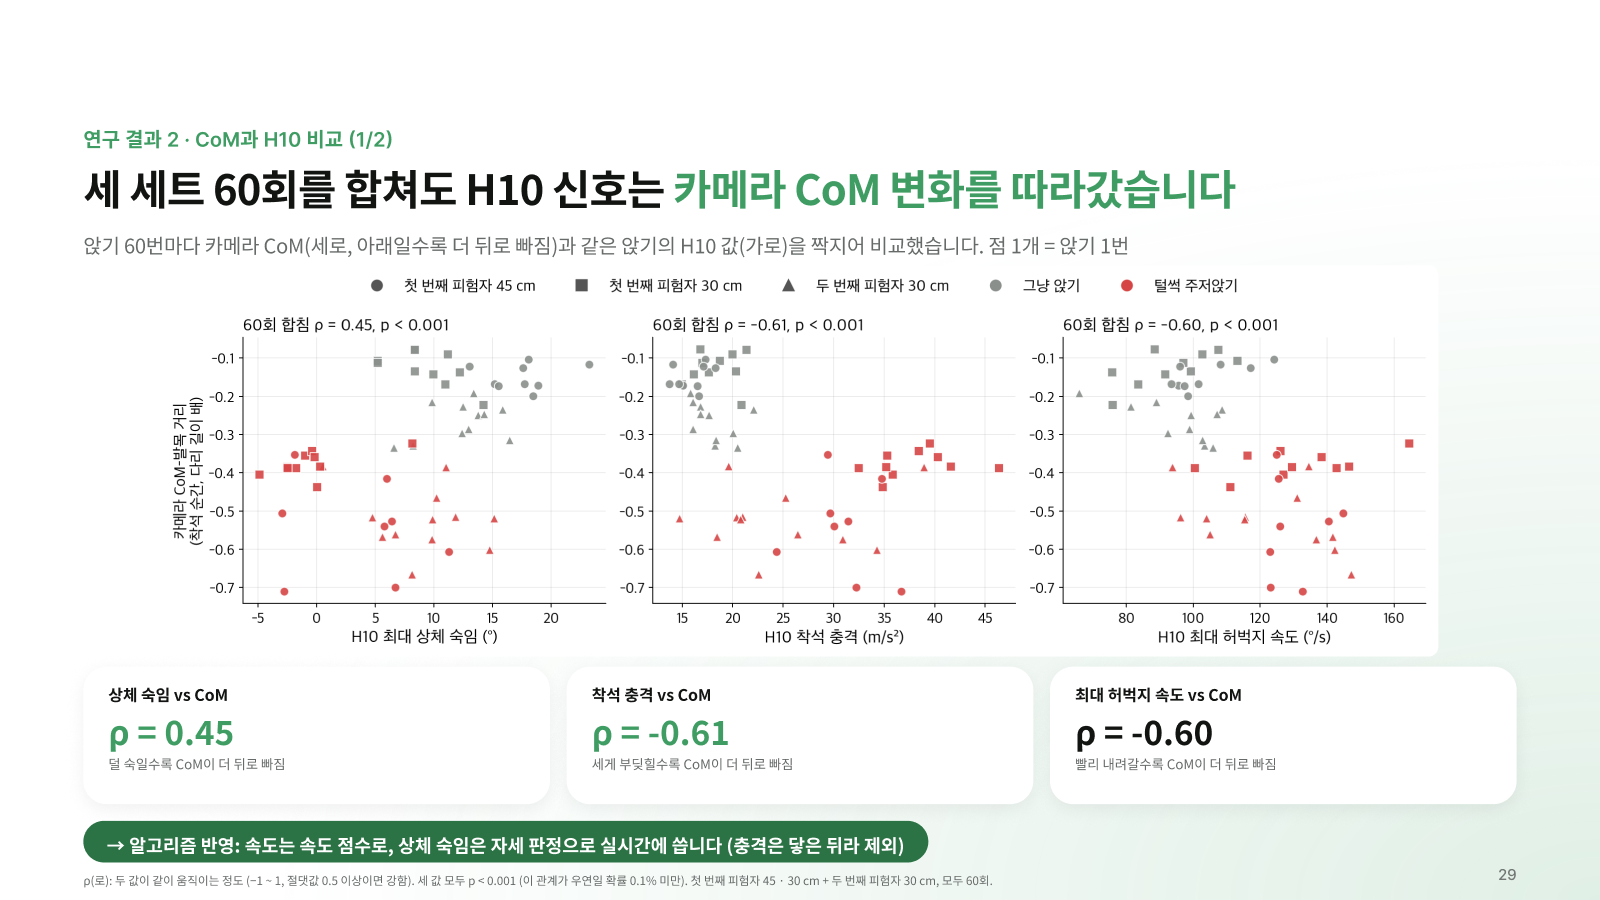
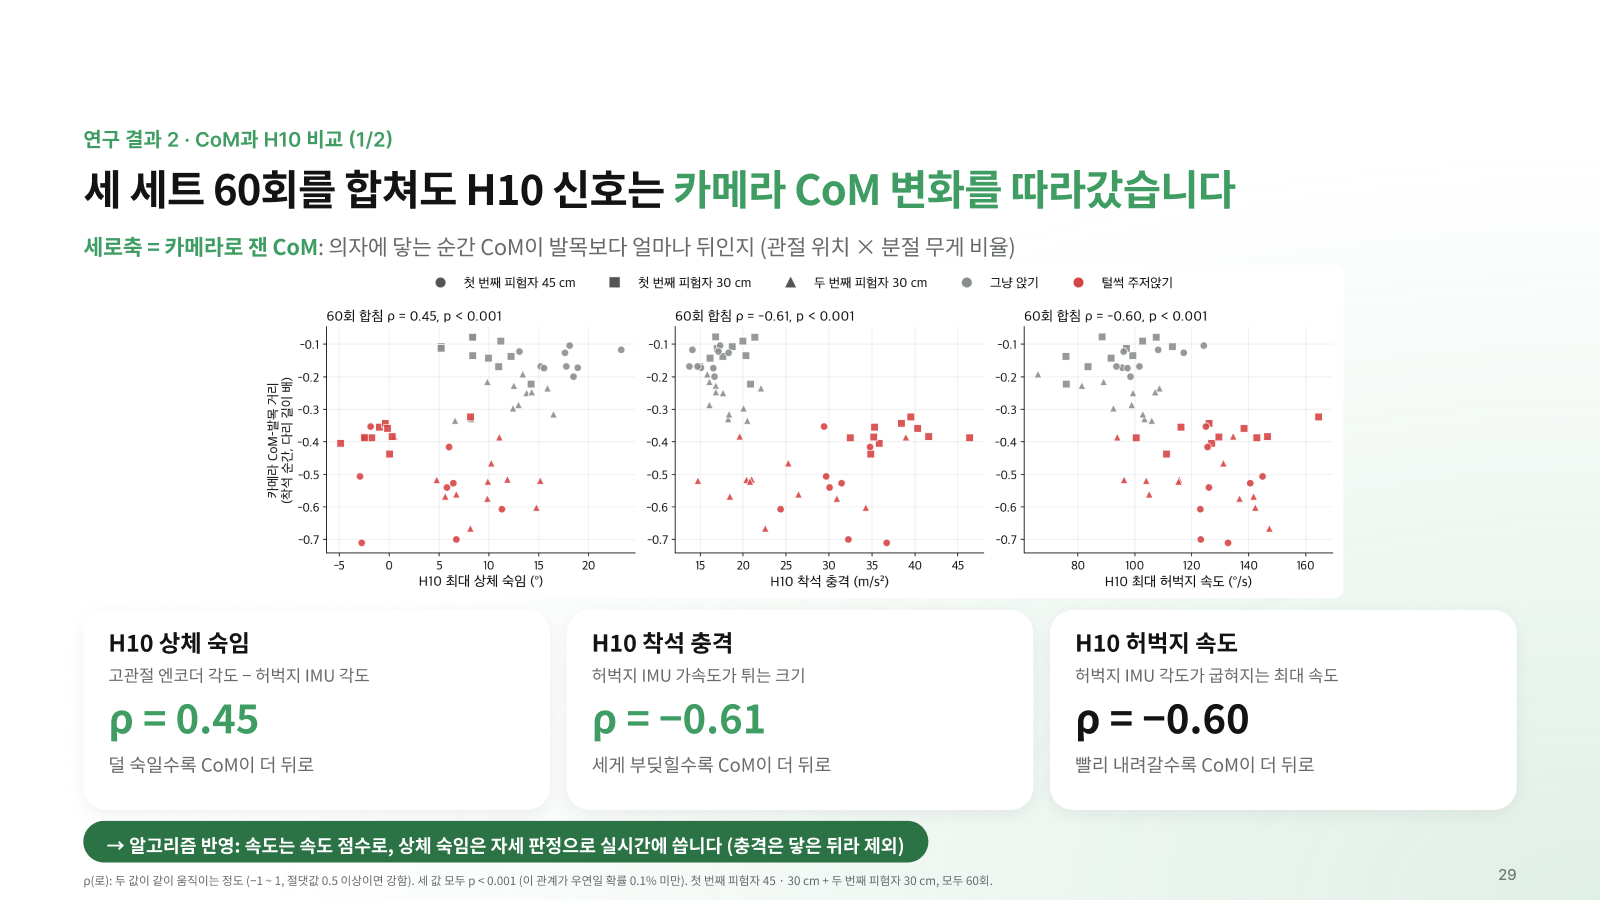
Slide 29: show how each H10 value and the camera CoM were measured, large cards

diff --git a/presentation/발표_대본.md b/presentation/발표_대본.md
@@ -90,16 +90,18 @@ CoM은 이렇게 구했습니다. 카메라를 옆에 고정해 전신을 찍고
 > 참고 (질문 받으면): '평소 최대 깊이'는 45 cm 평소 착석 각도의 평균에 표준편차의 2배(2SD)를 더한 69.4°입니다. 평소 착석의 약 95%가 이 안에 들어옵니다. 이 기준으로 낮은 의자를 몇 번 알아봤는지는 36번 보조 결과에서 보여 드립니다.
 
 **[29] 연구 결과 2-1: H10 신호는 CoM을 따라갔습니다**
-앉기 한 번마다 두 가지를 같이 쟀습니다. 하나는 카메라로 잰, 의자에 닿는 순간 CoM이 발목보다 얼마나 뒤에 있었는지입니다. 그래프의 세로축이고, 아래로 갈수록 더 뒤로 빠진 것입니다. 다른 하나는 같은 앉기에서 H10이 잰 값 세 가지, 상체를 최대로 숙인 각도, 닿을 때의 충격, 허벅지가 가장 빨리 굽혀진 속도입니다. 이게 가로축입니다. 점 하나가 앉기 한 번이고, 회색은 그냥 앉기, 빨간색은 털썩 주저앉기입니다. 이걸 60번 짝지어 봤습니다.
+이 장은 H10이 그대로 잰 값 중 무엇이 CoM과 같이 움직이는지 본 것입니다.
 
-ρ, '로'라고 읽는 값은 두 값이 얼마나 같이 움직이는지입니다. −1부터 1까지이고, 절댓값이 0.5를 넘으면 꽤 강한 관계로 봅니다. 카메라와 H10을 함께 잰 앉기 60번을 합쳐 보니,
-- 상체 숙임은 ρ = 0.45로, 덜 숙일수록 CoM이 더 뒤로 빠졌습니다.
-- 착석 충격은 ρ = −0.61로, 세게 부딪힐수록 CoM이 더 뒤로 빠졌습니다.
-- 최대 허벅지 속도는 ρ = −0.60으로, 빨리 내려갈수록 CoM이 더 뒤로 빠졌습니다.
+세로축은 카메라로 잰 CoM입니다. 앞에서 말씀드린 대로 관절 위치에 분절 무게 비율을 곱해 평균했고, 의자에 닿는 순간 CoM이 발목보다 얼마나 뒤에 있었는지를 씁니다. 아래로 갈수록 더 뒤로 빠진 것입니다.
 
-세 값 모두 p가 0.001보다 작아서, 우연히 나온 관계가 아닙니다. 즉 카메라 없이도 H10 값으로 CoM이 뒤로 빠지는 것을 알 수 있습니다.
+가로축은 같은 앉기에서 H10이 잰 값 세 가지입니다. 아래 카드 순서대로입니다.
+- **상체 숙임**은 고관절 엔코더 각도에서 허벅지 IMU 각도를 빼서 잽니다. ρ = 0.45로, 덜 숙일수록 CoM이 더 뒤로 빠졌습니다.
+- **착석 충격**은 의자에 닿을 때 허벅지 IMU 가속도가 튀는 크기입니다. ρ = −0.61로, 세게 부딪힐수록 CoM이 더 뒤로 빠졌습니다.
+- **허벅지 속도**는 허벅지 IMU 각도가 가장 빨리 굽혀진 속도입니다. ρ = −0.60으로, 빨리 내려갈수록 CoM이 더 뒤로 빠졌습니다.
 
-알고리즘에는 이렇게 반영했습니다. 속도는 속도 점수로, 상체 숙임은 자세 판정으로 실시간에 씁니다. 충격은 의자에 닿은 뒤에야 나오는 값이라 뺐습니다.
+ρ, '로'는 이렇게 '~일수록 ~했다'가 얼마나 일관되게 나타나는지입니다. −1부터 1까지이고 절댓값이 0.5를 넘으면 꽤 강합니다. 점 하나가 앉기 한 번이고, 60번 모두 p가 0.001보다 작아 우연이 아닙니다.
+
+그래서 H10은 CoM을 직접 못 재지만, 속도와 상체 숙임을 보면 CoM이 뒤로 빠지는 것을 알 수 있습니다. 이 두 값을 실시간 판단에 쓰고, 충격은 의자에 닿은 뒤에야 나오는 값이라 뺐습니다.
 
 > 참고 (질문 받으면)
 > - **상체 숙임이 0.45로 낮은 이유:** 첫 번째 피험자는 털썩 주저앉을 때 상체 숙임이 17.6° → 3.6°로 크게 줄어 ρ 0.72였습니다. 두 번째 피험자는 12.4° → 9.0°로 비슷하게 숙여 ρ 0.40이었습니다. 30 cm 의자에서는 평소에도 덜 숙여서, 합치면 점이 퍼집니다. 그래서 사람마다 기준을 따로 만듭니다.
